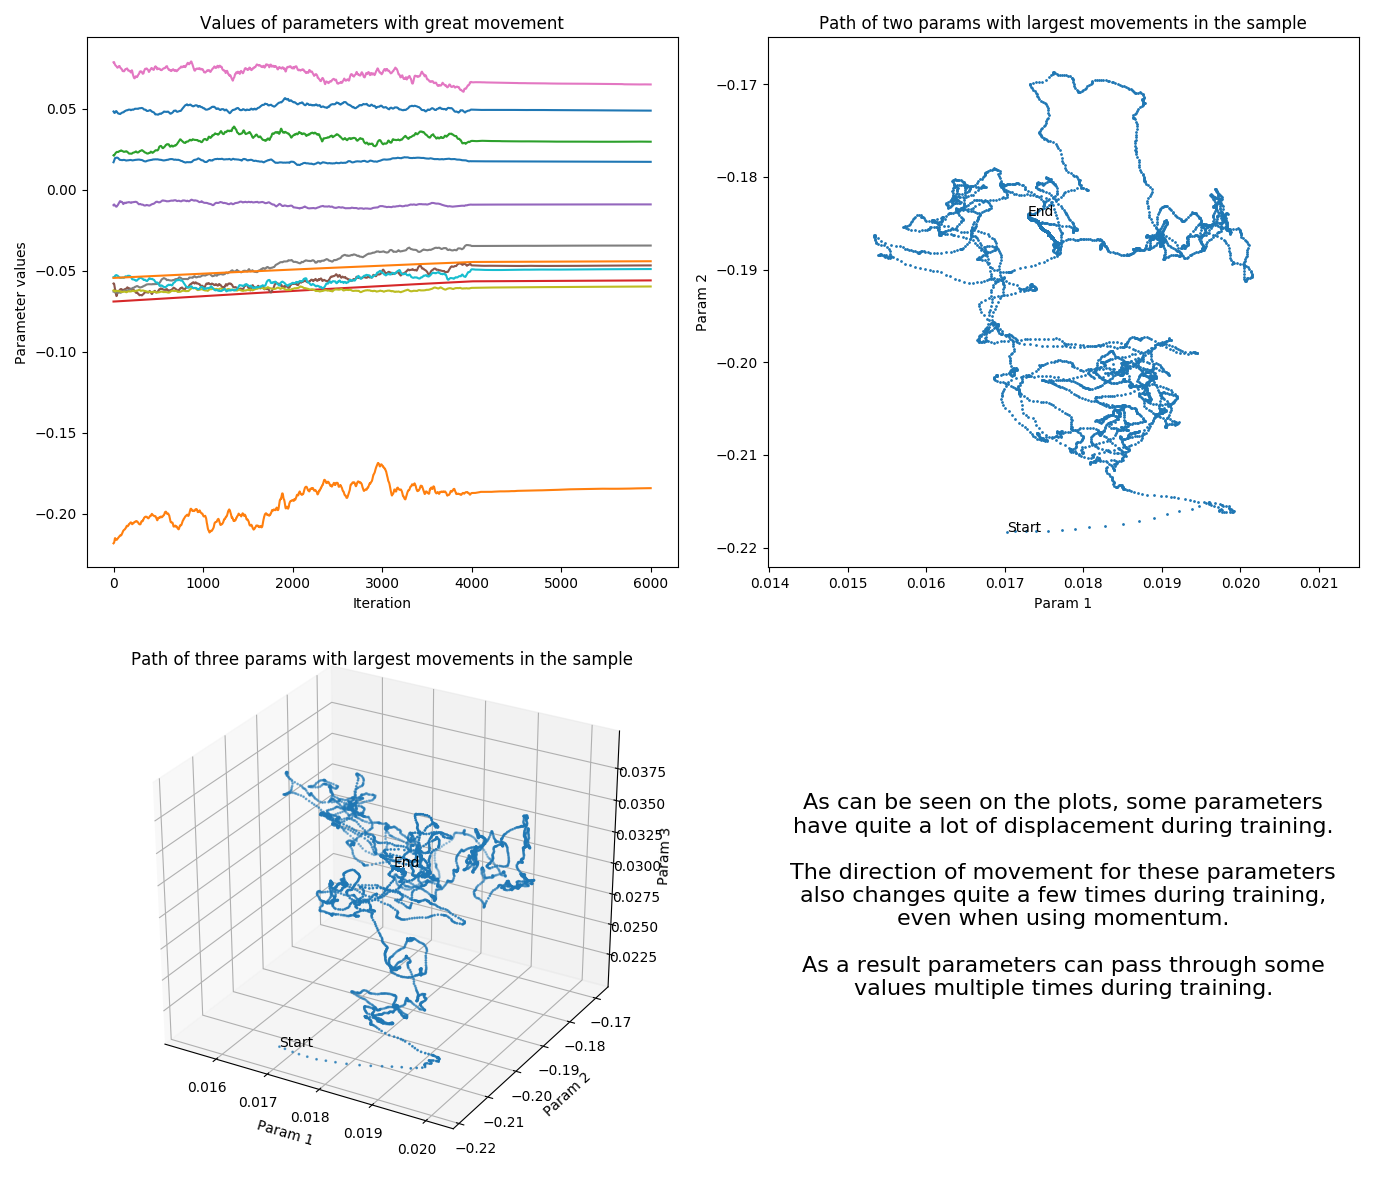
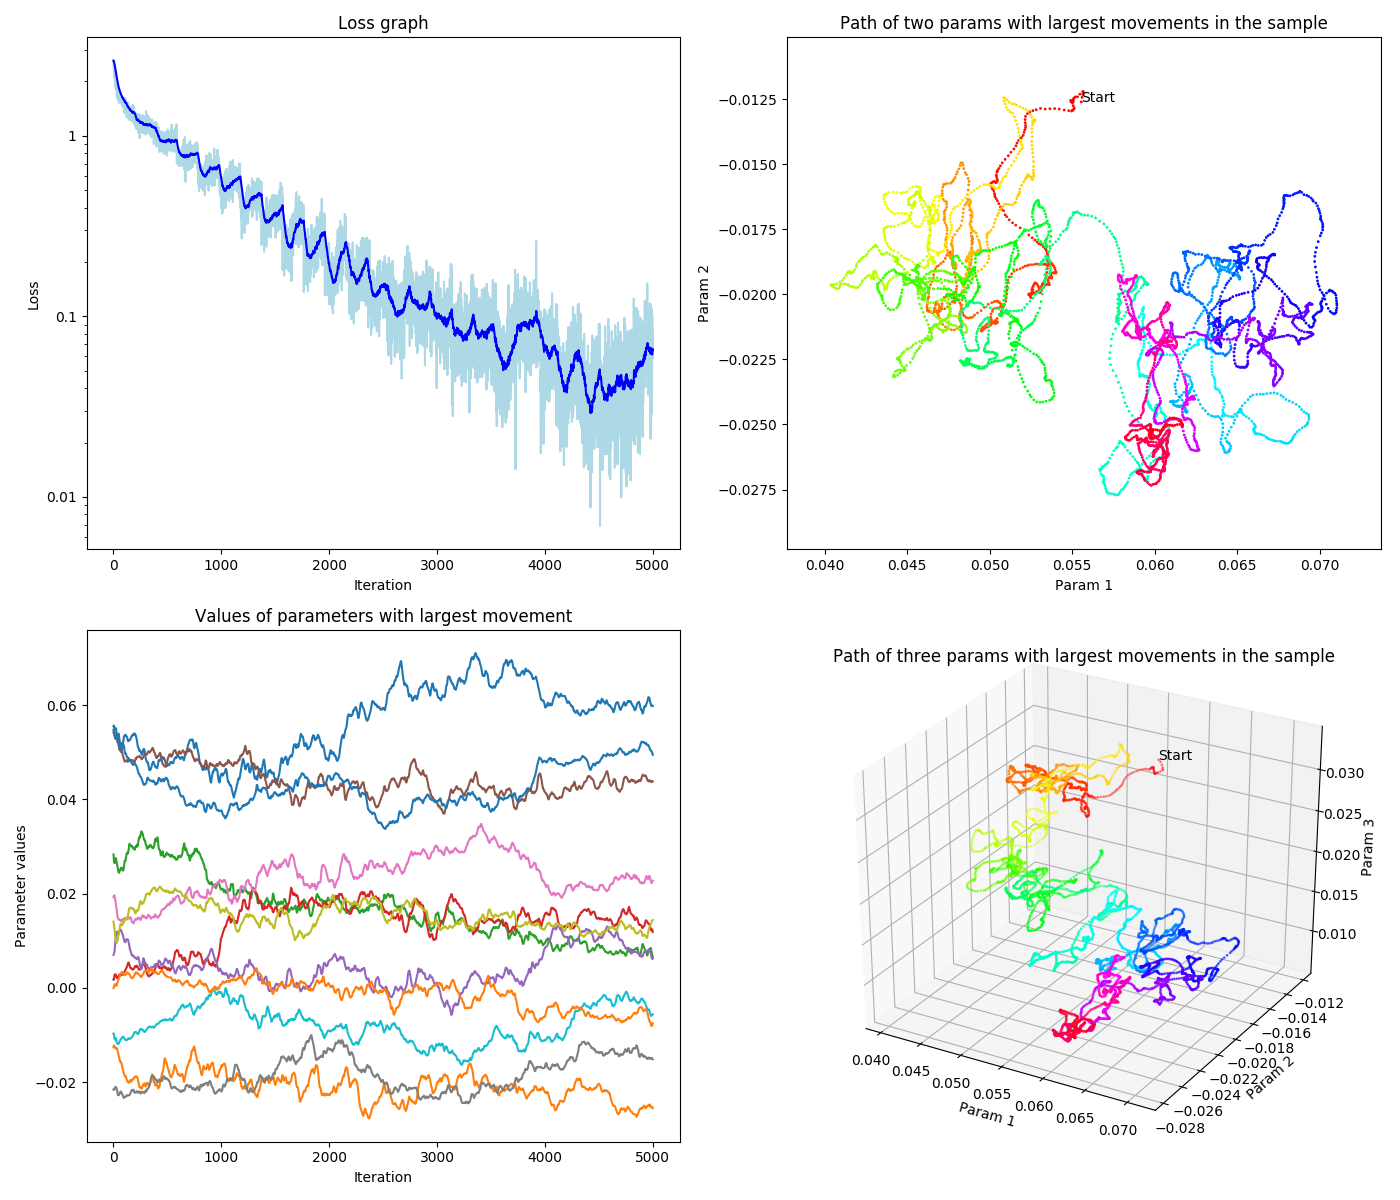
[vis_non_convex] Improve plots
fix: Fix bug in order calculation
feat: Add color to scatter plots
feat: Add loss
refactor: Move text to README.md

diff --git a/vis_non_convex/plot_train.py b/vis_non_convex/plot_train.py
@@ -6,6 +6,7 @@ from typing import List
 import matplotlib.pyplot as plt
 import numpy as np
 import torch
+from matplotlib.colors import Normalize
 from mpl_toolkits.mplot3d import Axes3D
 from torch import nn
 from torch.optim import SGD
@@ -14,9 +15,8 @@ from torchvision.datasets import CIFAR10
 from torchvision.models.resnet import resnet18
 from torchvision.transforms import Compose, Normalize, ToTensor
 
-classes = ('plane', 'car', 'bird', 'cat', 'deer', 'dog', 'frog', 'horse', 'ship', 'truck')
+sample_size = 200
 print_freq = 100
-base_lr = 0.01
 
 cache_path = Path('cache.pkl')
 
@@ -31,32 +31,29 @@ def get_param_subset(model: nn.Module, indices: List[int]) -> np.ndarray:
 def train():
     if cache_path.exists():
         with cache_path.open('rb') as f:
-            param_data = pickle.load(f)
+            param_data, loss_hist = pickle.load(f)
     else:
         model = resnet18(num_classes=10)
         model = nn.DataParallel(model.cuda())
 
-        lr = base_lr
         transform = Compose([ToTensor(), Normalize((0.5, 0.5, 0.5), (0.5, 0.5, 0.5))])
         dataset = CIFAR10('./data', train=True, download=True, transform=transform)
         loader = DataLoader(dataset, batch_size=256, shuffle=True, num_workers=4)
         dataiter = iter(loader)
 
         criterion = nn.CrossEntropyLoss()
-        optimizer = SGD(model.parameters(), lr, momentum=0.9, weight_decay=0.0005)
+        optimizer = SGD(model.parameters(), 0.01, momentum=0.9, weight_decay=0.0005)
 
         num_params = sum([p.numel() for p in model.parameters()])
         indices = list(range(num_params))
         random.shuffle(indices)
-        chosen_indices = indices[:100]
+        chosen_indices = indices[:sample_size]
         param_data = []
 
         total_loss = 0
         model.train()
-        for idx in range(6000):
-            if idx in [4000]:
-                lr *= 0.1
-                optimizer = SGD(model.parameters(), lr, momentum=0.9, weight_decay=0.0005)
+        loss_hist = []
+        for idx in range(5000):
             try:
                 inputs, labels = next(dataiter)
             except StopIteration:
@@ -71,7 +68,9 @@ def train():
             loss.backward()
             optimizer.step()
 
-            total_loss += float(loss)
+            loss = float(loss)
+            total_loss += loss
+            loss_hist.append(loss)
 
             param_data.append(get_param_subset(model, chosen_indices))
 
@@ -80,59 +79,59 @@ def train():
                 total_loss = 0
 
         param_data = np.array(param_data)
+        loss_hist = np.array(loss_hist)
 
         with cache_path.open('wb') as f:
-            pickle.dump(param_data, f)
+            pickle.dump((param_data, loss_hist), f)
 
-    swaped = np.swapaxes(param_data, 0, 1)
-    displacements = np.sum(np.abs(swaped[1:] - swaped[:-1]), axis=1)
+    smooth_loss_hist = list(loss_hist[:1])
+    for loss in loss_hist:
+        smooth_loss_hist.append(smooth_loss_hist[-1] * 0.95 + 0.05 * loss)
+
+    colors = np.arange(len(param_data))
+
+    displacements = np.sum(np.abs(param_data[1:] - param_data[:-1]), axis=0)
+
     order = np.argsort(displacements)[::-1]
 
     fig = plt.figure(figsize=(14, 12))
     ax = plt.subplot(2, 2, 1)
+    ax.plot(loss_hist, c='lightblue')
+    ax.plot(smooth_loss_hist, c='blue')
+    ax.set_title("Loss graph")
+    ax.set_xlabel("Iteration")
+    ax.set_ylabel("Loss")
+    ax.set_yscale('log')
+    ax.set_yticks([0.01, 0.1, 1.0])
+    ax.set_yticklabels(['0.01', '0.1', '1'])
+
+    ax = plt.subplot(2, 2, 3)
     for idx, param_idx in enumerate(order):
         param_hist = param_data[:, param_idx]
         ax.plot(param_hist)
         if idx > 10:
             break
-    ax.set_title("Values of parameters with great movement")
+    ax.set_title("Values of parameters with largest movement")
     ax.set_xlabel("Iteration")
     ax.set_ylabel("Parameter values")
 
     ax = plt.subplot(2, 2, 2)
     xs = param_data[:, order[0]]
     ys = param_data[:, order[1]]
-    ax.scatter(xs, ys, s=1)
+    ax.scatter(xs, ys, s=1, c=colors, cmap='hsv')
     ax.set_title("Path of two params with largest movements in the sample")
     ax.set_xlabel("Param 1")
     ax.set_ylabel("Param 2")
     ax.text(xs[0], ys[0], "Start")
-    ax.text(xs[-1], ys[-1], "End")
 
-    ax = plt.subplot(2, 2, 3, projection=Axes3D.name)
+    ax = plt.subplot(2, 2, 4, projection=Axes3D.name)
     zs = param_data[:, order[2]]
-    ax.scatter(xs, ys, zs, s=1)
+    ax.scatter(xs, ys, zs, s=1, c=colors, cmap='hsv')
     ax.set_title("Path of three params with largest movements in the sample")
     ax.set_xlabel("Param 1")
     ax.set_ylabel("Param 2")
     ax.set_zlabel("Param 3")
     ax.text(xs[0], ys[0], zs[0], "Start")
-    ax.text(xs[-1], ys[-1], zs[-1], "End")
-
-    ax = plt.subplot(2, 2, 4)
-    ax.axis([0, 1, 0, 1])
-    ax.text(0.5, 0.5,
-            "As can be seen on the plots, some parameters\n"
-            "have quite a lot of displacement during training.\n"
-            "\n"
-            "The direction of movement for these parameters\n"
-            "also changes quite a few times during training,\n"
-            "even when using momentum.\n"
-            "\n"
-            "As a result parameters can pass through some\n"
-            "values multiple times during training.",
-            ha='center', va='center', wrap=True, fontsize=16)
-    ax.axis('off')
 
     fig.tight_layout()
     fig.savefig("Paths.png")

diff --git a/vis_non_convex/README.md b/vis_non_convex/README.md
@@ -10,4 +10,9 @@ Results which are produced using `plot_train.py`, can be seen below.
 
 ![Results](Paths.png)
 
+As can be seen on the plots, some parameters have quite a lot of displacement during training.
+The direction of movement for these parameters also changes quite a few times during training,
+even when using momentum.
+As a result parameters can pass through some values multiple times during training.
+
 Running `plot_train.py` will also show the same figure with 3d plot being interactive.
